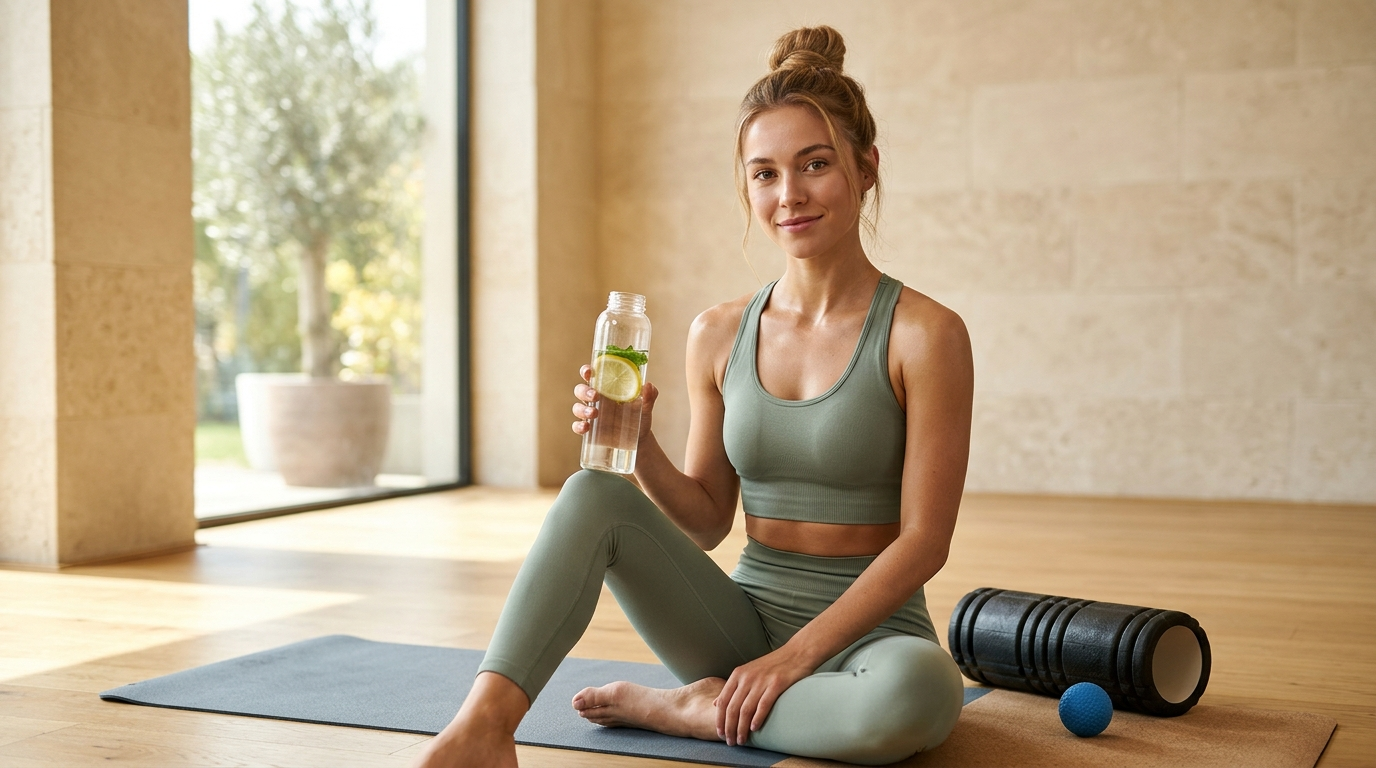
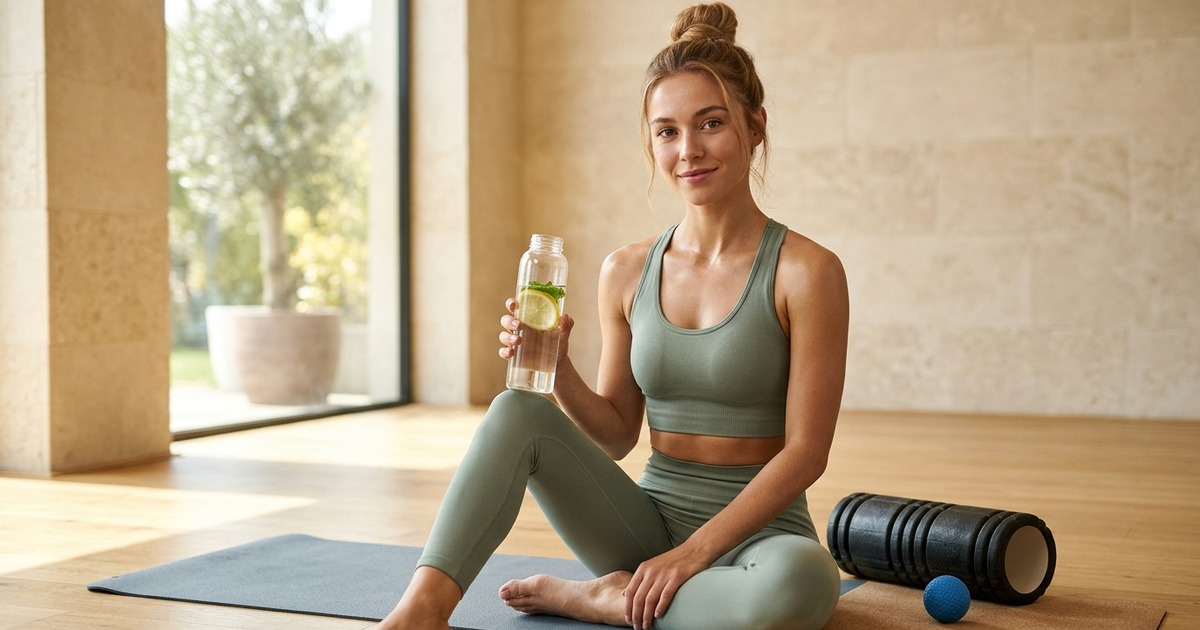
fix(article): shorten titles, resize cover to 1200x630, fix typos, and align reading time

diff --git a/app/[lang]/blog/[slug]/page.tsx b/app/[lang]/blog/[slug]/page.tsx
@@ -198,11 +198,16 @@ export default async function BlogPostPage({
     ? heroImage
     : absoluteUrl(heroImage);
 
-  // 7. 计算阅读时长
-  const wordCount = content.replace(/\s+/g, '').length;
-  const readingMinutes = isZh
-    ? Math.max(1, Math.ceil(wordCount / 450))
-    : Math.max(1, Math.ceil(content.split(/\s+/).length / 220));
+  // 7. 计算阅读时长（排除 URL、HTML 标签干扰，按中英有效阅读基准精准测算）
+  const strippedText = content.replace(/https?:\/\/\S+/g, '').replace(/<[^>]+>/g, '');
+  let readingMinutes: number;
+  if (isZh) {
+    const cjkChars = (strippedText.match(/[\u4e00-\u9fff]/g) || []).length;
+    const enWords = (strippedText.match(/[a-zA-Z0-9]+/g) || []).length;
+    readingMinutes = Math.max(1, Math.ceil((cjkChars + enWords) / 420));
+  } else {
+    readingMinutes = Math.max(1, Math.ceil(strippedText.trim().split(/\s+/).length / 220));
+  }
   const readingTimeText = isZh ? `阅读约 ${readingMinutes} 分钟` : `${readingMinutes} min read`;
 
   // 8. 标准化文章分类与面包屑

diff --git a/content/en/2026-11/myofascial-release-trigger-point-guide.md b/content/en/2026-11/myofascial-release-trigger-point-guide.md
@@ -1,5 +1,5 @@
 ---
-title: "The Science of Myofascial Release: Trigger Point Therapy, Tissue Hydration, and Autonomic Recovery"
+title: "The Science of Myofascial Release & Trigger Point Therapy"
 date: "2026-11-14"
 description: "Master the mechanobiology of self-myofascial release (SMR) and trigger point therapy. Discover hyaluronan thixotropy, fluid-exchange tissue hydration, Ruffini & Pacini neural inhibition, and an evidence-based full-body foam rolling & lacrosse ball protocol for autonomic parasympathetic recovery."
 category: "Recovery & Nutrition"
